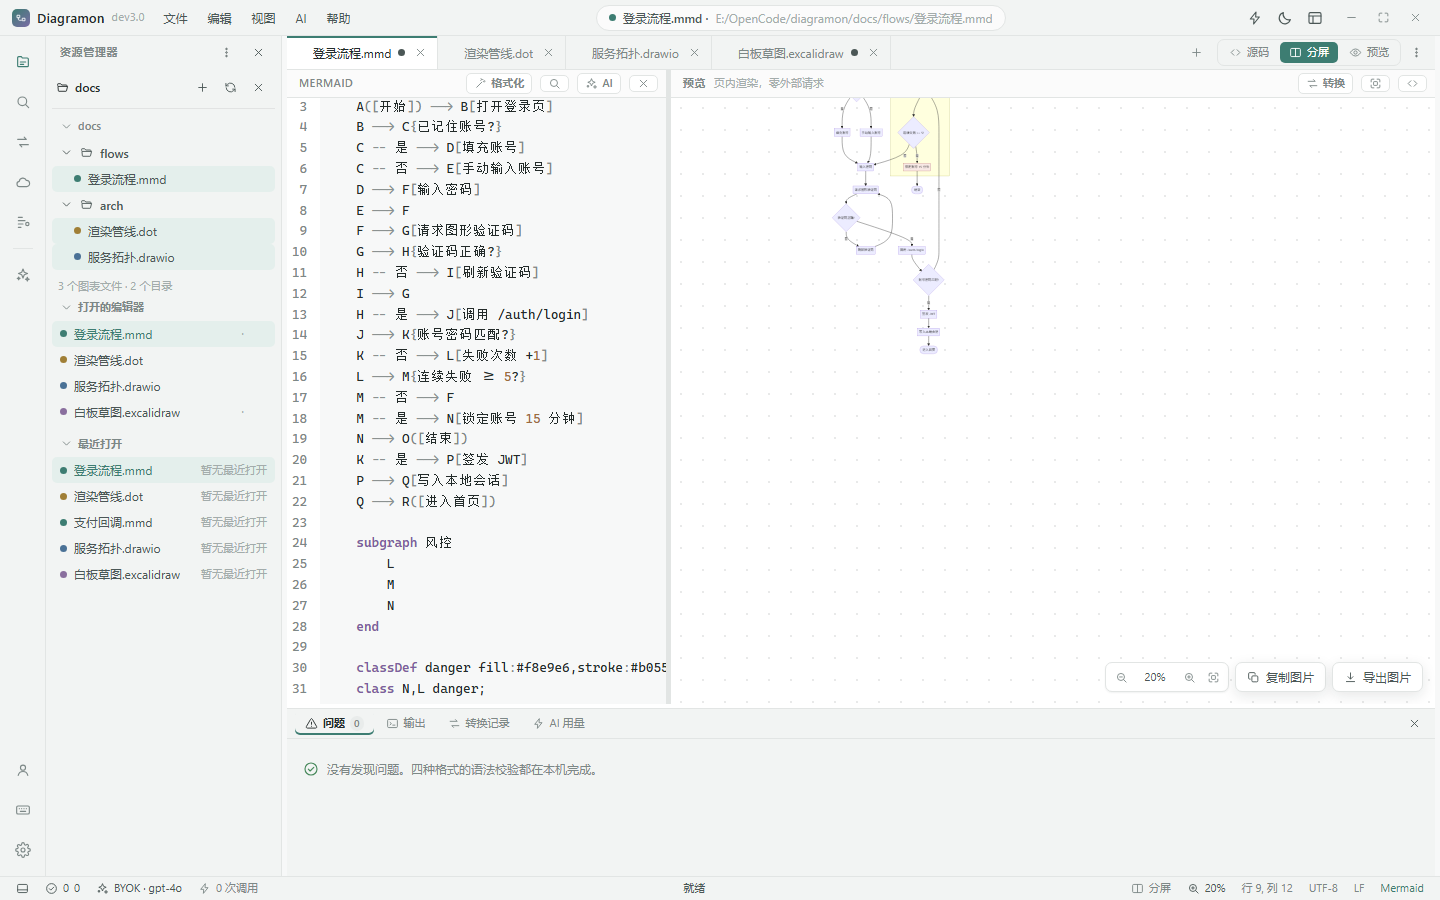
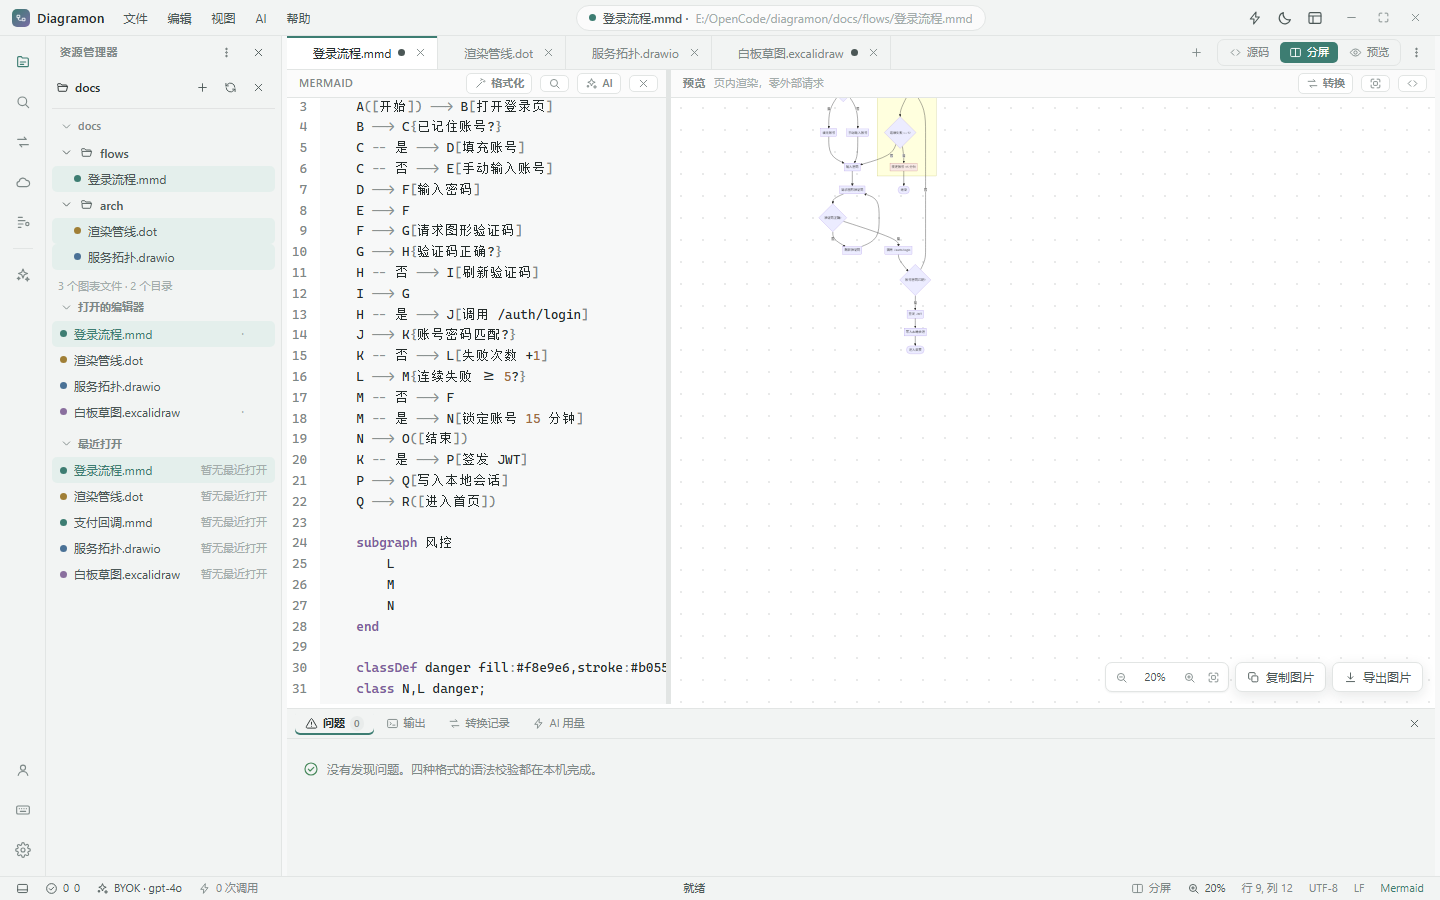
chore(release): 剪贴板短重试 + 截图按 readme_shots 现行输出重整（v3.0.5 收尾）
- clip_write_image 加 1.5s 短重试（10 次 x 150ms）：剪贴板管理器等瞬时占用不再一次失败就放弃；
  tokio 补 time feature（仅此用途，无新增依赖）。
- screenshots/ 对齐 tools/dev/readme_shots.py 现行 7 张序列（04 起插入 excalidraw 画布，
  后续编号顺移），删除 3 张旧编号；两份 README 引用同步 + 补 excalidraw 展示。

注：截图由 readme_shots.py 于本次发版验收时重新生成。

diff --git a/src-tauri/src/vision.rs b/src-tauri/src/vision.rs
@@ -221,13 +221,27 @@ pub async fn clip_write_image(base64: String) -> R<bool> {
     let (w, h) = rgba.dimensions();
 
     let mut clip = arboard::Clipboard::new().map_err(|e| format!("剪贴板打不开：{e}"))?;
-    clip.set_image(arboard::ImageData {
+    let data = arboard::ImageData {
         width: w as usize,
         height: h as usize,
         bytes: std::borrow::Cow::Owned(rgba.into_raw()),
-    })
-    .map_err(|e| format!("写剪贴板失败：{e}"))?;
-    Ok(true)
+    };
+    // 剪贴板是全局单例：剪贴板管理器 / 输入法 / 其它常驻工具会**毫秒级**地短暂占住它，
+    // 单次尝试会撞 "held by another party"（2026-10-13 自检两次连败都是它）。
+    // 小步重试 ~1.5s：占用都是瞬时的，重试基本必成；持续打不开再如实报错。
+    let mut last_err = String::new();
+    for attempt in 0..10 {
+        match clip.set_image(data.clone()) {
+            Ok(()) => return Ok(true),
+            Err(e) => {
+                last_err = format!("写剪贴板失败：{e}");
+                if attempt < 9 {
+                    tokio::time::sleep(std::time::Duration::from_millis(150)).await;
+                }
+            }
+        }
+    }
+    Err(last_err)
 }
 
 /// 读回剪贴板里的图（自检用：写进去再读出来，比对尺寸）。

diff --git a/README.md b/README.md
@@ -23,11 +23,13 @@ Version **3.0.0** · Official website <https://www.diagramon.com>
 
 ![drawio canvas](screenshots/03-drawio-canvas.png)
 
-![Dark theme](screenshots/04-dark-preview.png)
+![Excalidraw canvas](screenshots/04-excalidraw-canvas.png)
 
-![Cloud documents](screenshots/05-cloud-docs.png)
+![Dark theme](screenshots/05-dark-preview.png)
 
-![Account and AI credits](screenshots/06-cloud-account.png)
+![Cloud documents](screenshots/06-cloud-docs.png)
+
+![Account and AI credits](screenshots/07-cloud-account.png)
 
 ## Features
 
